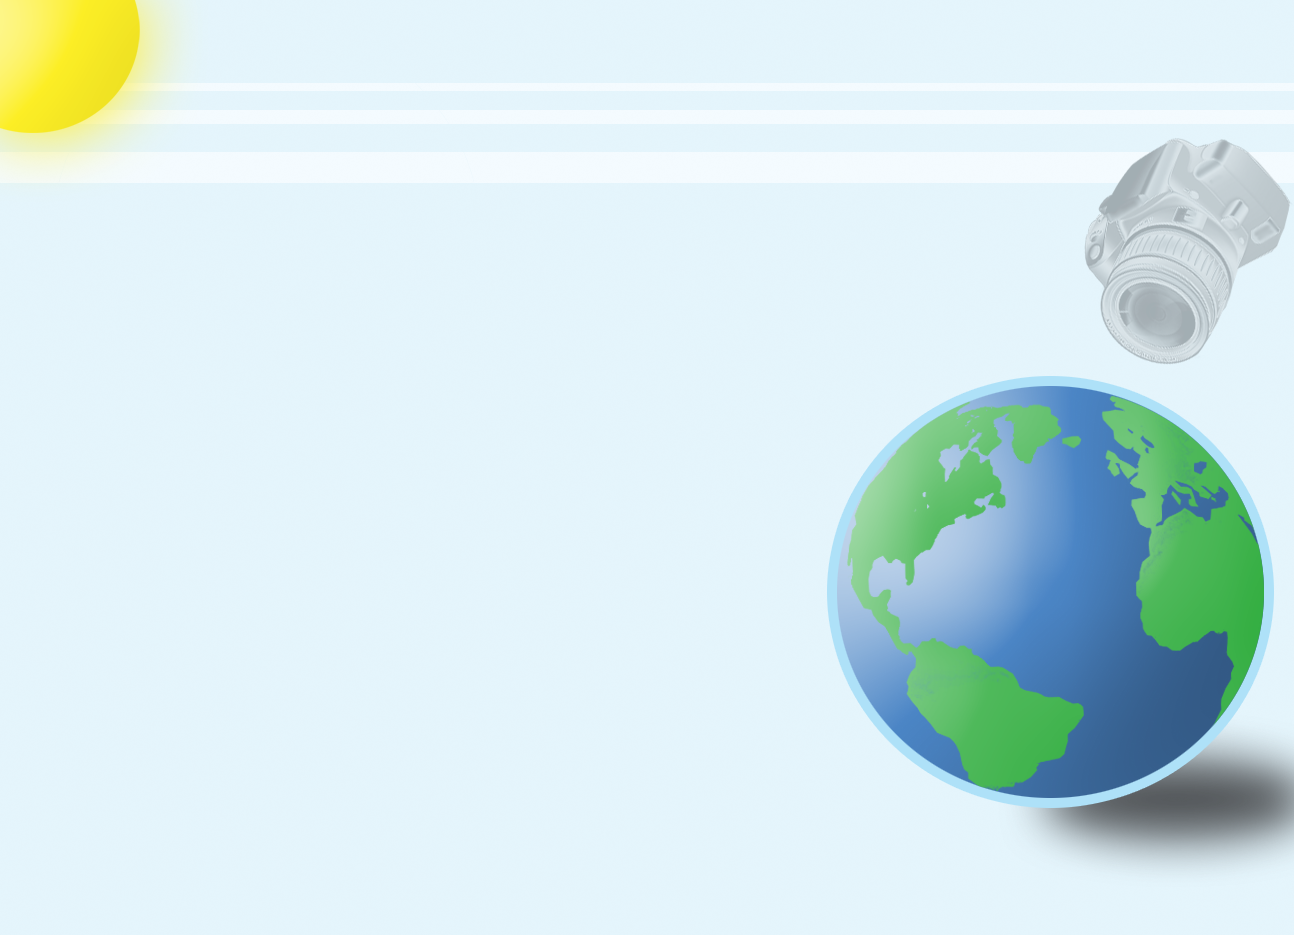
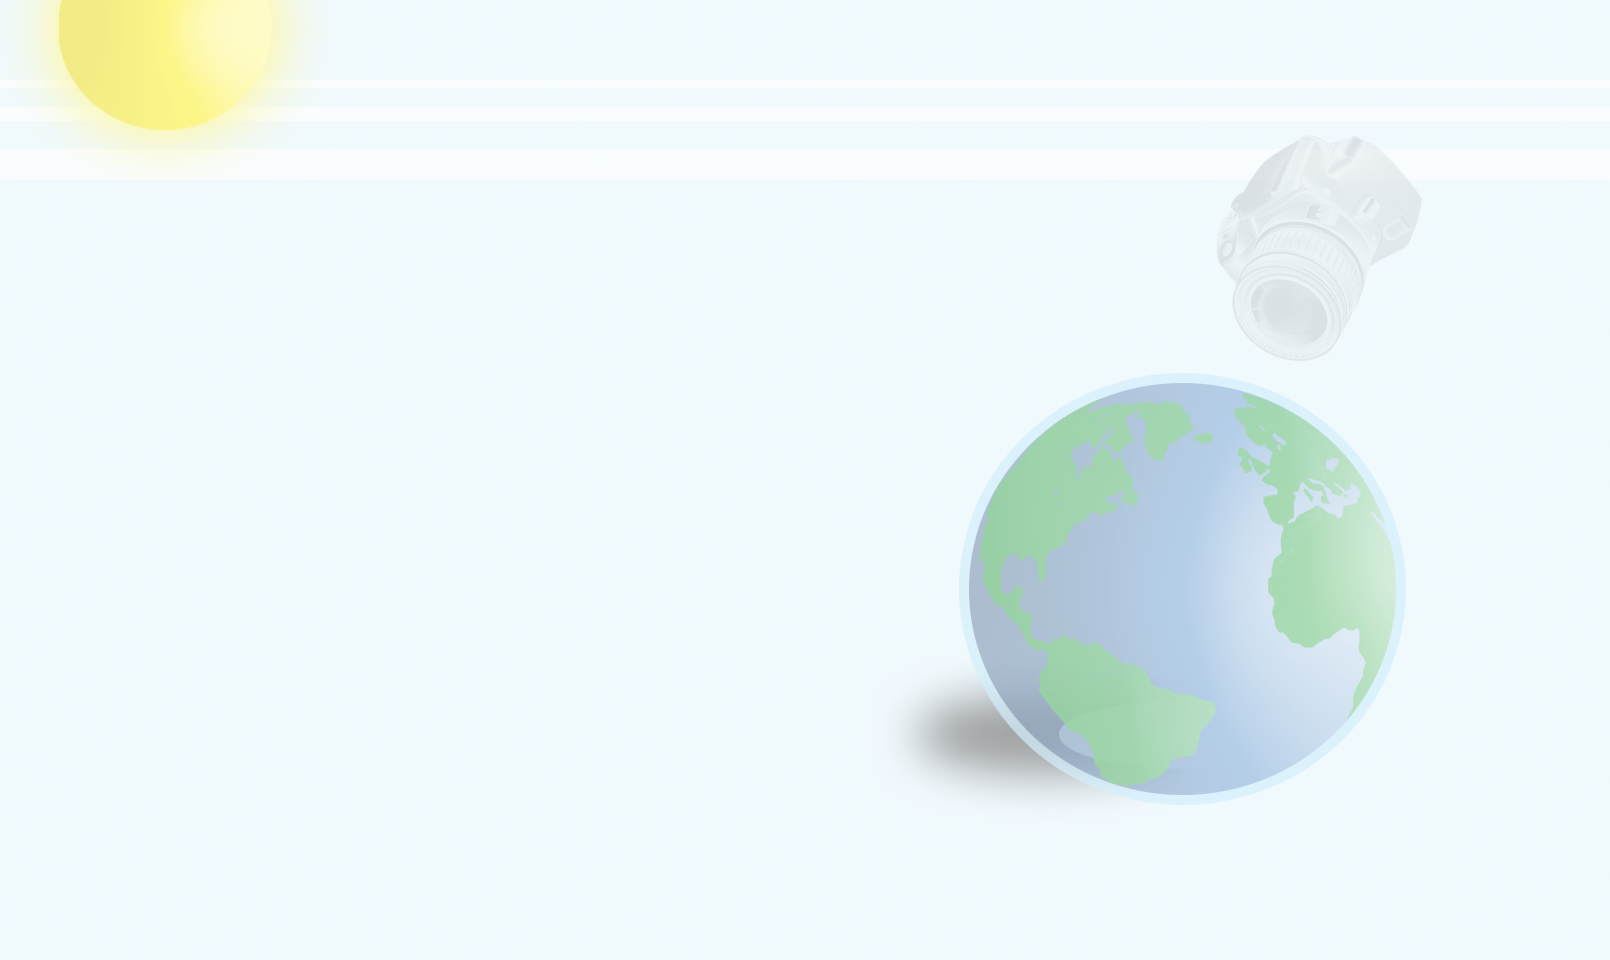
Make home page conform

Changed region(s): [[0.5564, 0.1551, 1.0, 0.9305], [0.0, 0.0, 0.1855, 0.1861], [0.7728, 0.1551, 0.8037, 0.2171]]

diff --git a/app/webroot/css/screen.css b/app/webroot/css/screen.css
@@ -1,21 +1,18 @@
 /*Copyright (c) 2009, Yahoo! Inc. All rights reserved. Code licensed under the BSD License: http://developer.yahoo.net/yui/license.txt version: 2.8.0r4*/html{color:#000;background:#FFF;}body,div,dl,dt,dd,ul,ol,li,h1,h2,h3,h4,h5,h6,pre,code,form,fieldset,legend,input,button,textarea,p,blockquote,th,td{margin:0;padding:0;}table{border-collapse:collapse;border-spacing:0;}fieldset,img{border:0;}address,caption,cite,code,dfn,em,strong,th,var,optgroup{font-style:inherit;font-weight:inherit;}del,ins{text-decoration:none;}li{list-style:none;}caption,th{text-align:left;}h1,h2,h3,h4,h5,h6{font-size:100%;font-weight:normal;}q:before,q:after{content:'';}abbr,acronym{border:0;font-variant:normal;}sup{vertical-align:baseline;}sub{vertical-align:baseline;}legend{color:#000;}input,button,textarea,select,optgroup,option{font-family:inherit;font-size:inherit;font-style:inherit;font-weight:inherit;}input,button,textarea,select{*font-size:100%;} /*end copyrighted*/
+
 .clearer {clear:both;}
 body {
   font-family: Helvetica,Arial,sans-serif;
   font-size: 15px;
   color: #000;
-  background: url('/img/bg.png') no-repeat fixed center center;
+  background: url('/img/bg.png') no-repeat fixed top center;
 }
-
 a {
   text-decoration: none;
 }
-
 h1 {
   font-size: 1.7em;
-  color: #d05b2d;
 }
-
 form th {
   text-align: right;
 }
@@ -65,13 +62,17 @@ img.s3, .s3 img { min-height: 50px; max-width: 400px; max-height: 450px; }
   -moz-border-radius: 15px;
   margin-top: 1em;
 }
-#foot_bar h1 a {
-  font-size: medium;
-  color: #fff;
+#foot_bar table {
+  position: relative;
+  right: 0;
 }
 #foot_bar a {
   color: #fff;
   font-size: small;
+}
+#foot_bar h1 a {
+  font-size: large;
+  font-weight: bold;
 }
 #foot_bar td {
   padding: 1em;
@@ -80,7 +81,7 @@ img.s3, .s3 img { min-height: 50px; max-width: 400px; max-height: 450px; }
 #centering, ul.main_buttons {
   position:relative;
   margin: auto;
-  width: 1000px;
+  width: 920px;
   max-width: 85%;
 }
 #content {
@@ -110,67 +111,33 @@ img.s3, .s3 img { min-height: 50px; max-width: 400px; max-height: 450px; }
 .home strong {
   color: #d05b2d;
 }
-.home h1 {
+.home .title {
   font-size: larger;
 }
-.home h1.title {
-  margin-bottom: 1em;
-  font-size: large;
-  color: #d05b2d;
-}
-.home .question {
-  position: relative;
-  height: 56px;
-  vertical-align: center;
-  margin-bottom: 1em;
-}
-.home .question p {
-  position: relative;
-  font-size: x-large;
-  vertical-align: middle;
-  padding-left: 1em;
-  padding-top: 16px;
-  height: 39px;
-  margin-right: 1em;
-  min-width: 23.7em;
-  background-color: #e0eef5;
-  border-radius: 19px;
-  -moz-border-radius: 19px; 
-}
-.home .question p a {
-  position: absolute;
-  top: 0;
-  right: 0;
-}
-.home .question p span {
-  color: #999;
-  font-size: medium;
-}
-.home .footer {
-  text-align: center;
-  margin-top: 1em;
+.home .action {
   width: 100%;
-  border-top: 1px solid #999;
+  margin: 1em 0;
 }
-.home .footer td {
-  vertical-align: top;
-  width: 33%;
+.home .action .question {
+  font-size: large;
+  vertical-align: middle;
+  text-align: center;
 }
-.home .footer td h1 {
-  margin: 0.5em 0 0.5em 0;
-  font-size: x-large;
-  color: black;
+.home .action .question .question {
+  font-size: xx-large;
+  color: #3b0;
 }
-.home .footer td p {
-  margin: 1em 0 1em 0;
-}
-.home .stream {
+.home .connect {
+  width: 145px;
+  text-align: right;
 }
 .home .stream h1 {
-  color: #000;
+  font-size: large;
+  color: #d05b2d;
+  margin: 0.5em 0;
 }
 .home .stream .tools {
-  margin-top: 0.5em;
+  display: inline;
 }
 .home .stream .tools a {
   text-decoration: none;
@@ -181,13 +148,8 @@ img.s3, .s3 img { min-height: 50px; max-width: 400px; max-height: 450px; }
   border-spacing: 4px;
   border-collapse: separate;
 }
-.home .stream .photos img {
-  width: 50px;
-  height: 50px;
-}
 .home .updating_map {
   border: 1px solid;
-  margin-left: 1em;
 }
 .home .updating_map #map {
   width: 400px;
@@ -247,6 +209,43 @@ img.s3, .s3 img { min-height: 50px; max-width: 400px; max-height: 450px; }
   color: #bb2727;
   text-decoration: none;
 }
+.home .right.pane {
+  padding-left: 2em;
+}
+.home .right.pane h1 {
+  text-align: center;
+  font-size: medium;
+}
+.home .footer {
+  text-align: center;
+  margin-top: 1em;
+  width: 100%;
+  border-top: 1px solid #999;
+}
+.home .footer td {
+  position: relative;
+  vertical-align: top;
+  width: 33%;
+}
+.home .footer td h1 {
+  margin: 0.5em 0;
+  font-size: x-large;
+}
+.home .footer td p {
+  margin: 1em 0;
+}
+.home .footer .links {
+  position: relative;
+}
+.home .footer .links ul {
+  position: absolute;
+}
+.home .footer .links a { 
+  font-size: smaller;
+  color: #d05b2d;
+}
+.home .footer .links .left { text-align: left; left: 0; }
+.home .footer .links .right { text-align: right; right: 0; }
 
 .photos.view #the_image {
   margin: 1em auto 1em auto;
@@ -599,7 +598,7 @@ input[type="text"]:focus, input[type="password"]:focus {
   height: inherit;
 }
 .infoed.photo .info .numcomments a {
-  color: #b61818;
+  color: #555;
   font-size: small;
 }
 .infoed.photo .info .time {
